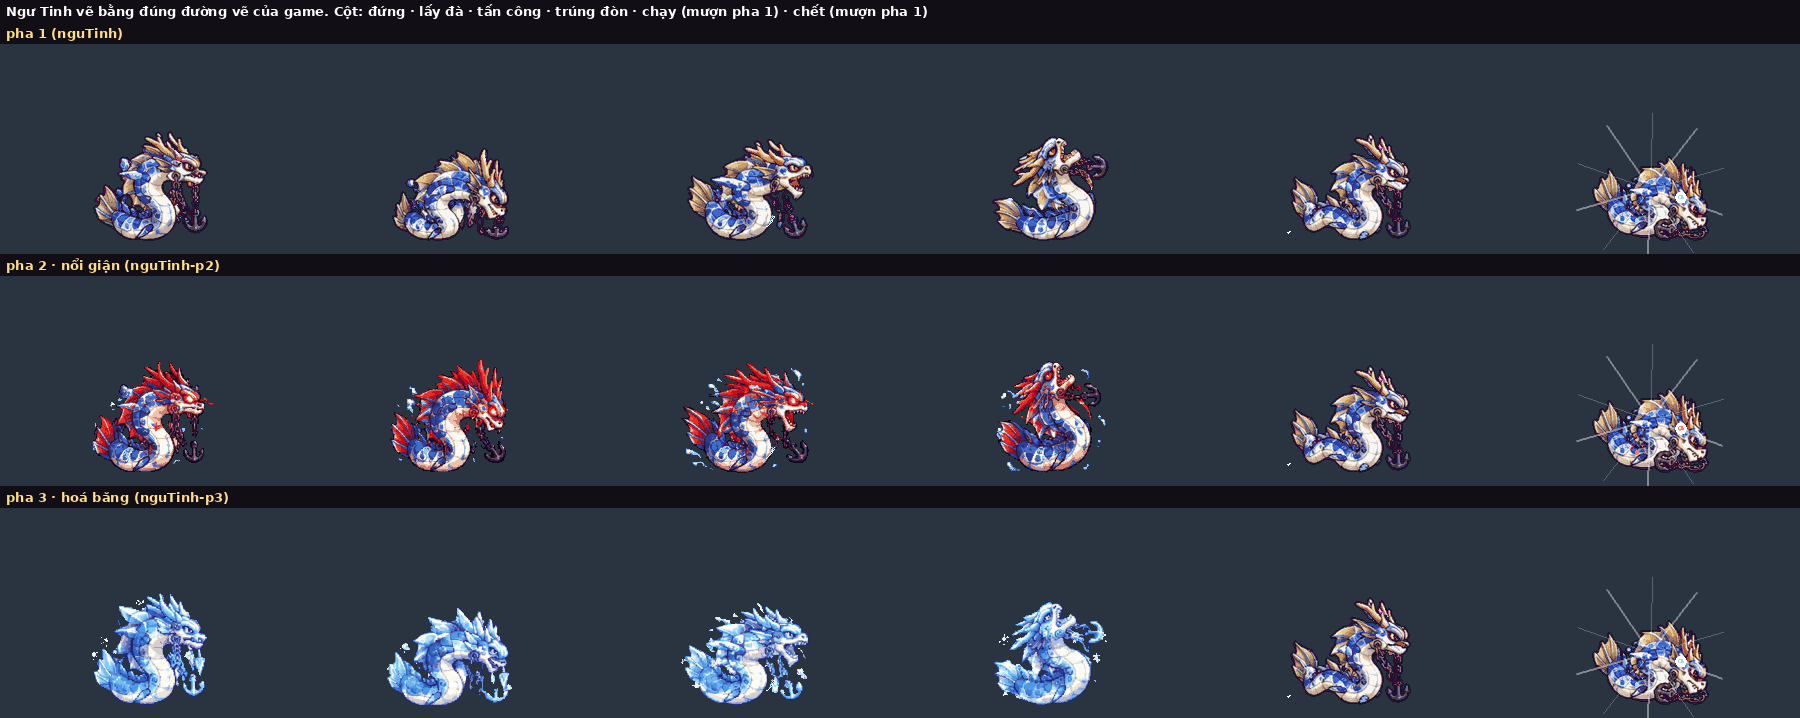
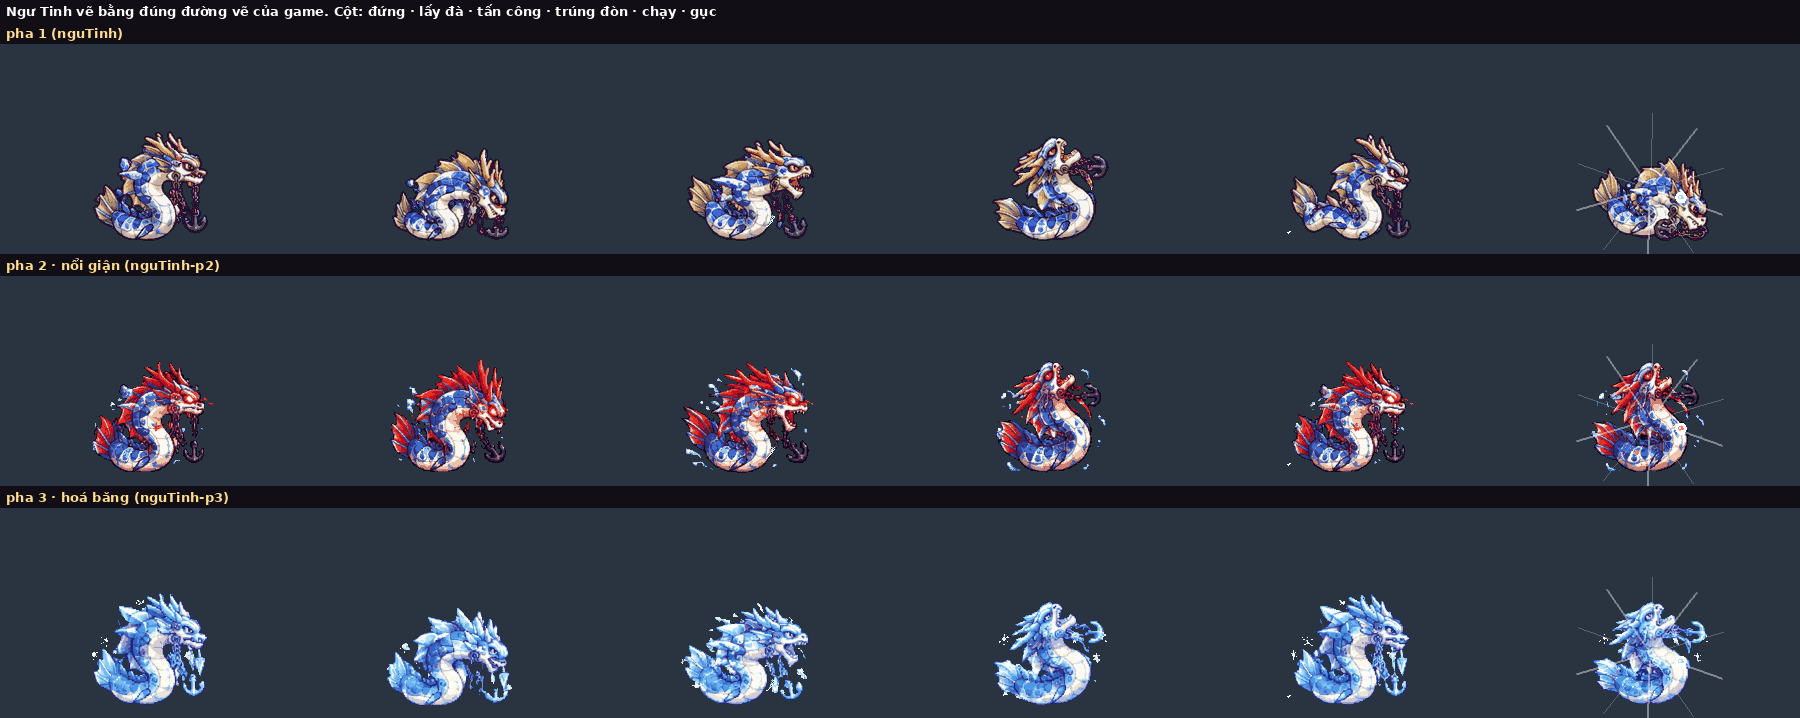
Báo cáo Ngư Tinh pha 2, 3: kiểm lại sau khi gộp logic đổi pha mới (chạy, gục dùng hình của chính pha), số dung lượng sau gộp
Claude-Session: https://claude.ai/code/session_017N7QXqfkK27mirk6Hvvt7g

diff --git a/docs/review/ke-hoach-cai-thien/nhap-anh-12-10/ngu-tinh/kiem.py b/docs/review/ke-hoach-cai-thien/nhap-anh-12-10/ngu-tinh/kiem.py
@@ -36,7 +36,7 @@ THEM = r"""
   T.ve2 = () => { const W = G.getWorld(), b = W.boss; T.yen(b); b.an = { n: 'idle', t: 0, spd: 1 }; for (let i = 0; i < 30; i++) { T.yen(b); T.frame(1); G.getRun().P.hp = G.getRun().P.maxhp; } return b.phase; };
 })();
 """
-COT = [('idle', 0.3, 'đứng'), ('tele', 0.6, 'lấy đà'), ('atk', 0.85, 'tấn công'), ('hit', 0.6, 'trúng đòn'), ('move', 0.3, 'chạy (mượn pha 1)'), ('die', 0.2, 'chết (mượn pha 1)')]
+COT = [('idle', 0.3, 'đứng'), ('tele', 0.6, 'lấy đà'), ('atk', 0.85, 'tấn công'), ('hit', 0.6, 'trúng đòn'), ('move', 0.3, 'chạy'), ('die', 0.2, 'gục')]
 KQ = {}
 
 

diff --git a/docs/review/ke-hoach-cai-thien/nhap-anh-12-10/ngu-tinh/bao-cao.md b/docs/review/ke-hoach-cai-thien/nhap-anh-12-10/ngu-tinh/bao-cao.md
@@ -7,8 +7,8 @@ Thay: `game/art/custom/nguTinh-p2.sprite.json`, `game/art/custom/nguTinh-p3.spri
 - `ba-pha.png`: 3 pha cạnh nhau trong phòng trùm thật (cắt quanh trùm).
 - `pha-1.png`, `pha-2.png`, `pha-3.png`: cả màn hình 844×390, hạ máu để game TỰ chuyển pha (60% → pha 2, 30% → pha 3).
 - `don-tan-cong.gif` (95 KB): lấy đà + tấn công, pha 1 | pha 2 | pha 3 cạnh nhau.
-- `chuyen-pha.gif` (147 KB): pha 1 → 2 → 3 trong phòng thật.
-- `can-canh.png`: đúng đường vẽ của game, 3 pha × đứng, lấy đà, tấn công, trúng đòn, chạy, chết.
+- `chuyen-pha.gif` (~150 KB): pha 1 → 2 → 3 trong phòng thật.
+- `can-canh.png`: đúng đường vẽ của game, 3 pha × đứng, lấy đà, tấn công, trúng đòn, chạy, gục.
 
 ## Định dạng (giữ như tệp -p2/-p3 cũ)
 | | pha 1 | pha 2 | pha 3 |
@@ -16,7 +16,7 @@ Thay: `game/art/custom/nguTinh-p2.sprite.json`, `game/art/custom/nguTinh-p3.spri
 | ô / nét | 180×116, nét ×1 | 180×116, nét ×2 | 180×116, nét ×2 |
 | điểm gốc | [90,112] | [90,112] | [90,112] |
 | đứng · lấy đà · tấn công · trúng đòn | 6 · 4 · 6 · 4 | **6 · 4 · 6 · 4** (đủ, không phải lặp khung) | **6 · 4 · 6 · 4** |
-| chạy, chết | có | mượn pha 1 (game tự làm) | mượn pha 1 |
+| chạy, gục | có | dùng dáng đứng / trúng đòn pha 2 (logic phiên "Kiểm 3 pha trùm", 1542f27) | như pha 2 |
 | màu | — | 24 | 24 |
 | dung lượng tệp | 0,56 MB | **0,15 MB** (cũ 1,15 MB) | **0,16 MB** (cũ 1,23 MB) |
 
@@ -31,8 +31,8 @@ Thay: `game/art/custom/nguTinh-p2.sprite.json`, `game/art/custom/nguTinh-p3.spri
 Bị cắt: pha 2 lấy đà khung 1 và 3 chóp gai đỏ vượt mép trên ô 3–4 điểm game. Không khung nào bị cắt ngang.
 
 ## Kiểm (`kiem.py`)
-- Phòng trùm Hang biển (Ngư Tinh), pha 1 → hạ máu → game tự chuyển pha 2, pha 3. Pha 2, 3 vẽ đứng / lấy đà / tấn công / trúng đòn từ `nguTinh-p2` / `nguTinh-p3`; chạy, chết mượn `nguTinh`. **0 pageerror**, 0 lỗi trang (`ket-qua.json`).
-- `python3 game/build.py` và `LK_HAI_TEP=1 python3 game/build.py --hai-tep` chạy được. Hai tệp **23,97 MB / trần 26 MB** (hai tệp Ngư Tinh nhẹ đi ~2 MB so với trước).
+- Phòng trùm Hang biển (Ngư Tinh), pha 1 → hạ máu → game tự chuyển pha 2, pha 3. Pha 2, 3 vẽ đứng / lấy đà / tấn công / trúng đòn từ `nguTinh-p2` / `nguTinh-p3`; chạy, gục dùng dáng đứng / trúng đòn của chính pha đó (đã gộp 1542f27, kiểm lại sau gộp). **0 pageerror**, 0 lỗi trang (`ket-qua.json`).
+- `python3 game/build.py` và `LK_HAI_TEP=1 python3 game/build.py --hai-tep` chạy được. Sau khi gộp các phiên song song: hai tệp **22,39 MB / trần 26 MB** (hai tệp Ngư Tinh nhẹ đi ~2 MB so với trước).
 
 ## Ghi chú
 - Pha 1 đang nét ×1; pha 2, 3 nét ×2 nhưng vẽ khối 2×2 nên độ chi tiết bằng pha 1 — đổi pha không thấy "nét hơn/nhoè hơn".
